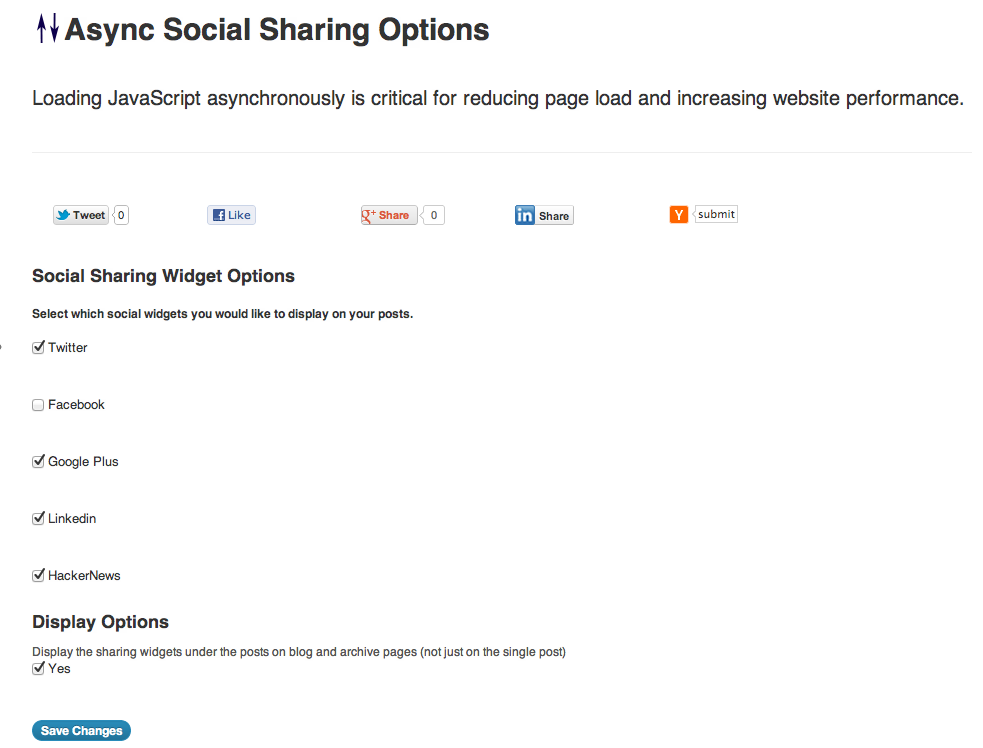
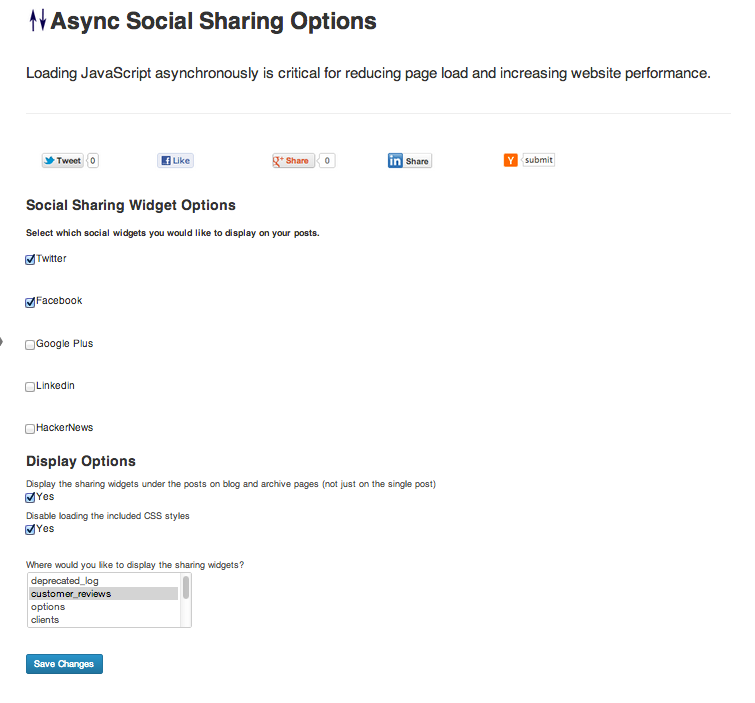
Updating readmes and screenshot for 1.6

diff --git a/README.md b/README.md
@@ -14,33 +14,57 @@ Available display options include ability to display the sharing widgets on page
 
 ##Release Notes
 
+__Version 1.6__
+
+* Added option to prevent default CSS stylesheet from loading.
+
+* Fixed bug where PHP Exception was thrown if post types array was empty.
+
+* Tested with WordPress 3.5 Beta 3
+
 __Version 1.5.1__
-Fixed bug that would cause content in RSS feeds to not display.
-Fixed bug where PHP Exception was thrown on pages if the display options were not set.
+
+* Fixed bug that would cause content in RSS feeds to not display.
+
+* Fixed bug where PHP Exception was thrown on pages if the display options were not set.
+
+
 
 __Version 1.5.0__
-Added ability to display social widgets on pages.
-Added ability to select which custom post types will display the social widgets.
-Reworked `async-share.js` file.  Now only the external social scripts that are selected to be displayed will be loaded.
-Improved display styles for social widgets.
+
+* Added ability to display social widgets on pages.
+
+* Added ability to select which custom post types will display the social widgets.
+
+* Reworked `async-share.js` file.  Now only the external social scripts that are selected to be displayed will be loaded.
+
+* Improved display styles for social widgets.
 
 __Version 1.2.0__
-Combined function for plugin's script and style loading.
-Fixed bug that was generating a PHP error when no options were set.
-Tested with WordPress 3.4.1
+
+* Combined function for plugin's script and style loading.
+
+* Fixed bug that was generating a PHP error when no options were set.
+
+* Tested with WordPress 3.4.1
 
 __Version 1.1.0__
-Added Display Options to plugin to allow sharing widgets to be displayed on blog and archive pages.
-Fixed bug with Facebook `fb-root` div not being detected before script loaded.
-Updated license to GPLv3
+
+* Added Display Options to plugin to allow sharing widgets to be displayed on blog and archive pages.
+
+* Fixed bug with Facebook `fb-root` div not being detected before script loaded.
+
+* Updated license to GPLv3
 
 __Version 1.0.1__
-Added lazy loading to async-share.js
-Fixed issue with plugin settings link
+
+* Added lazy loading to async-share.js
+
+* Fixed issue with plugin settings link
 
 __Version 1.0__
 
-Initial release
+* Initial release
 
 __Upcoming Versions Wishlist__
 
